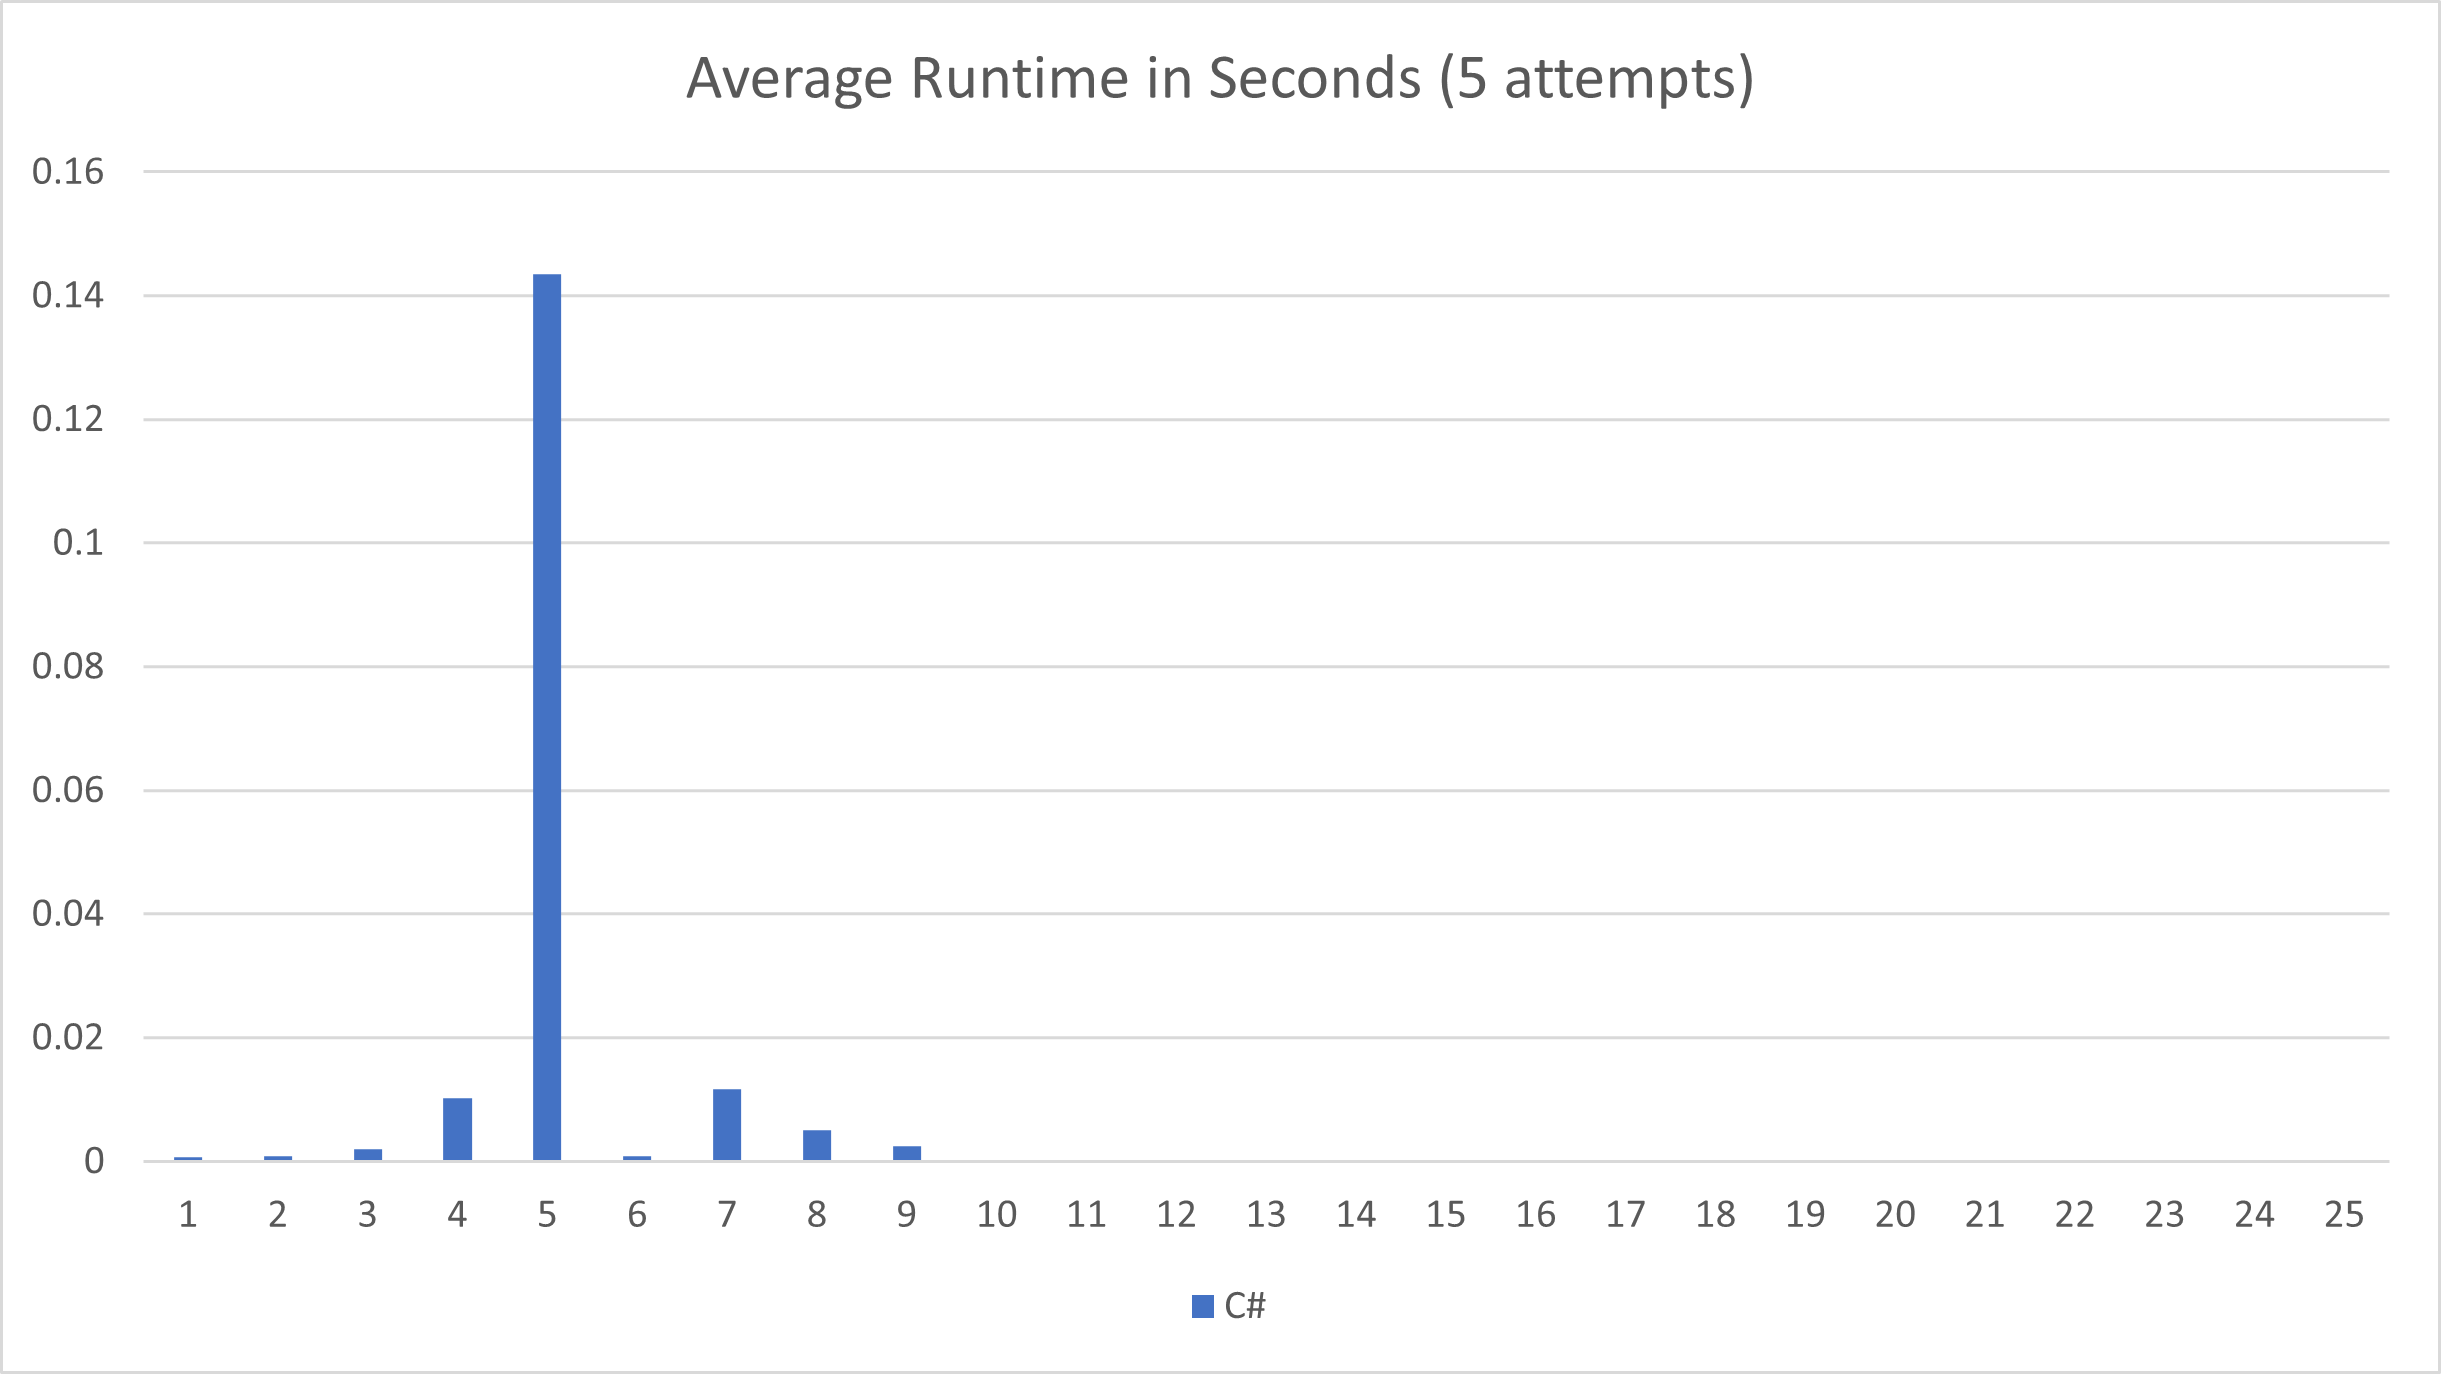
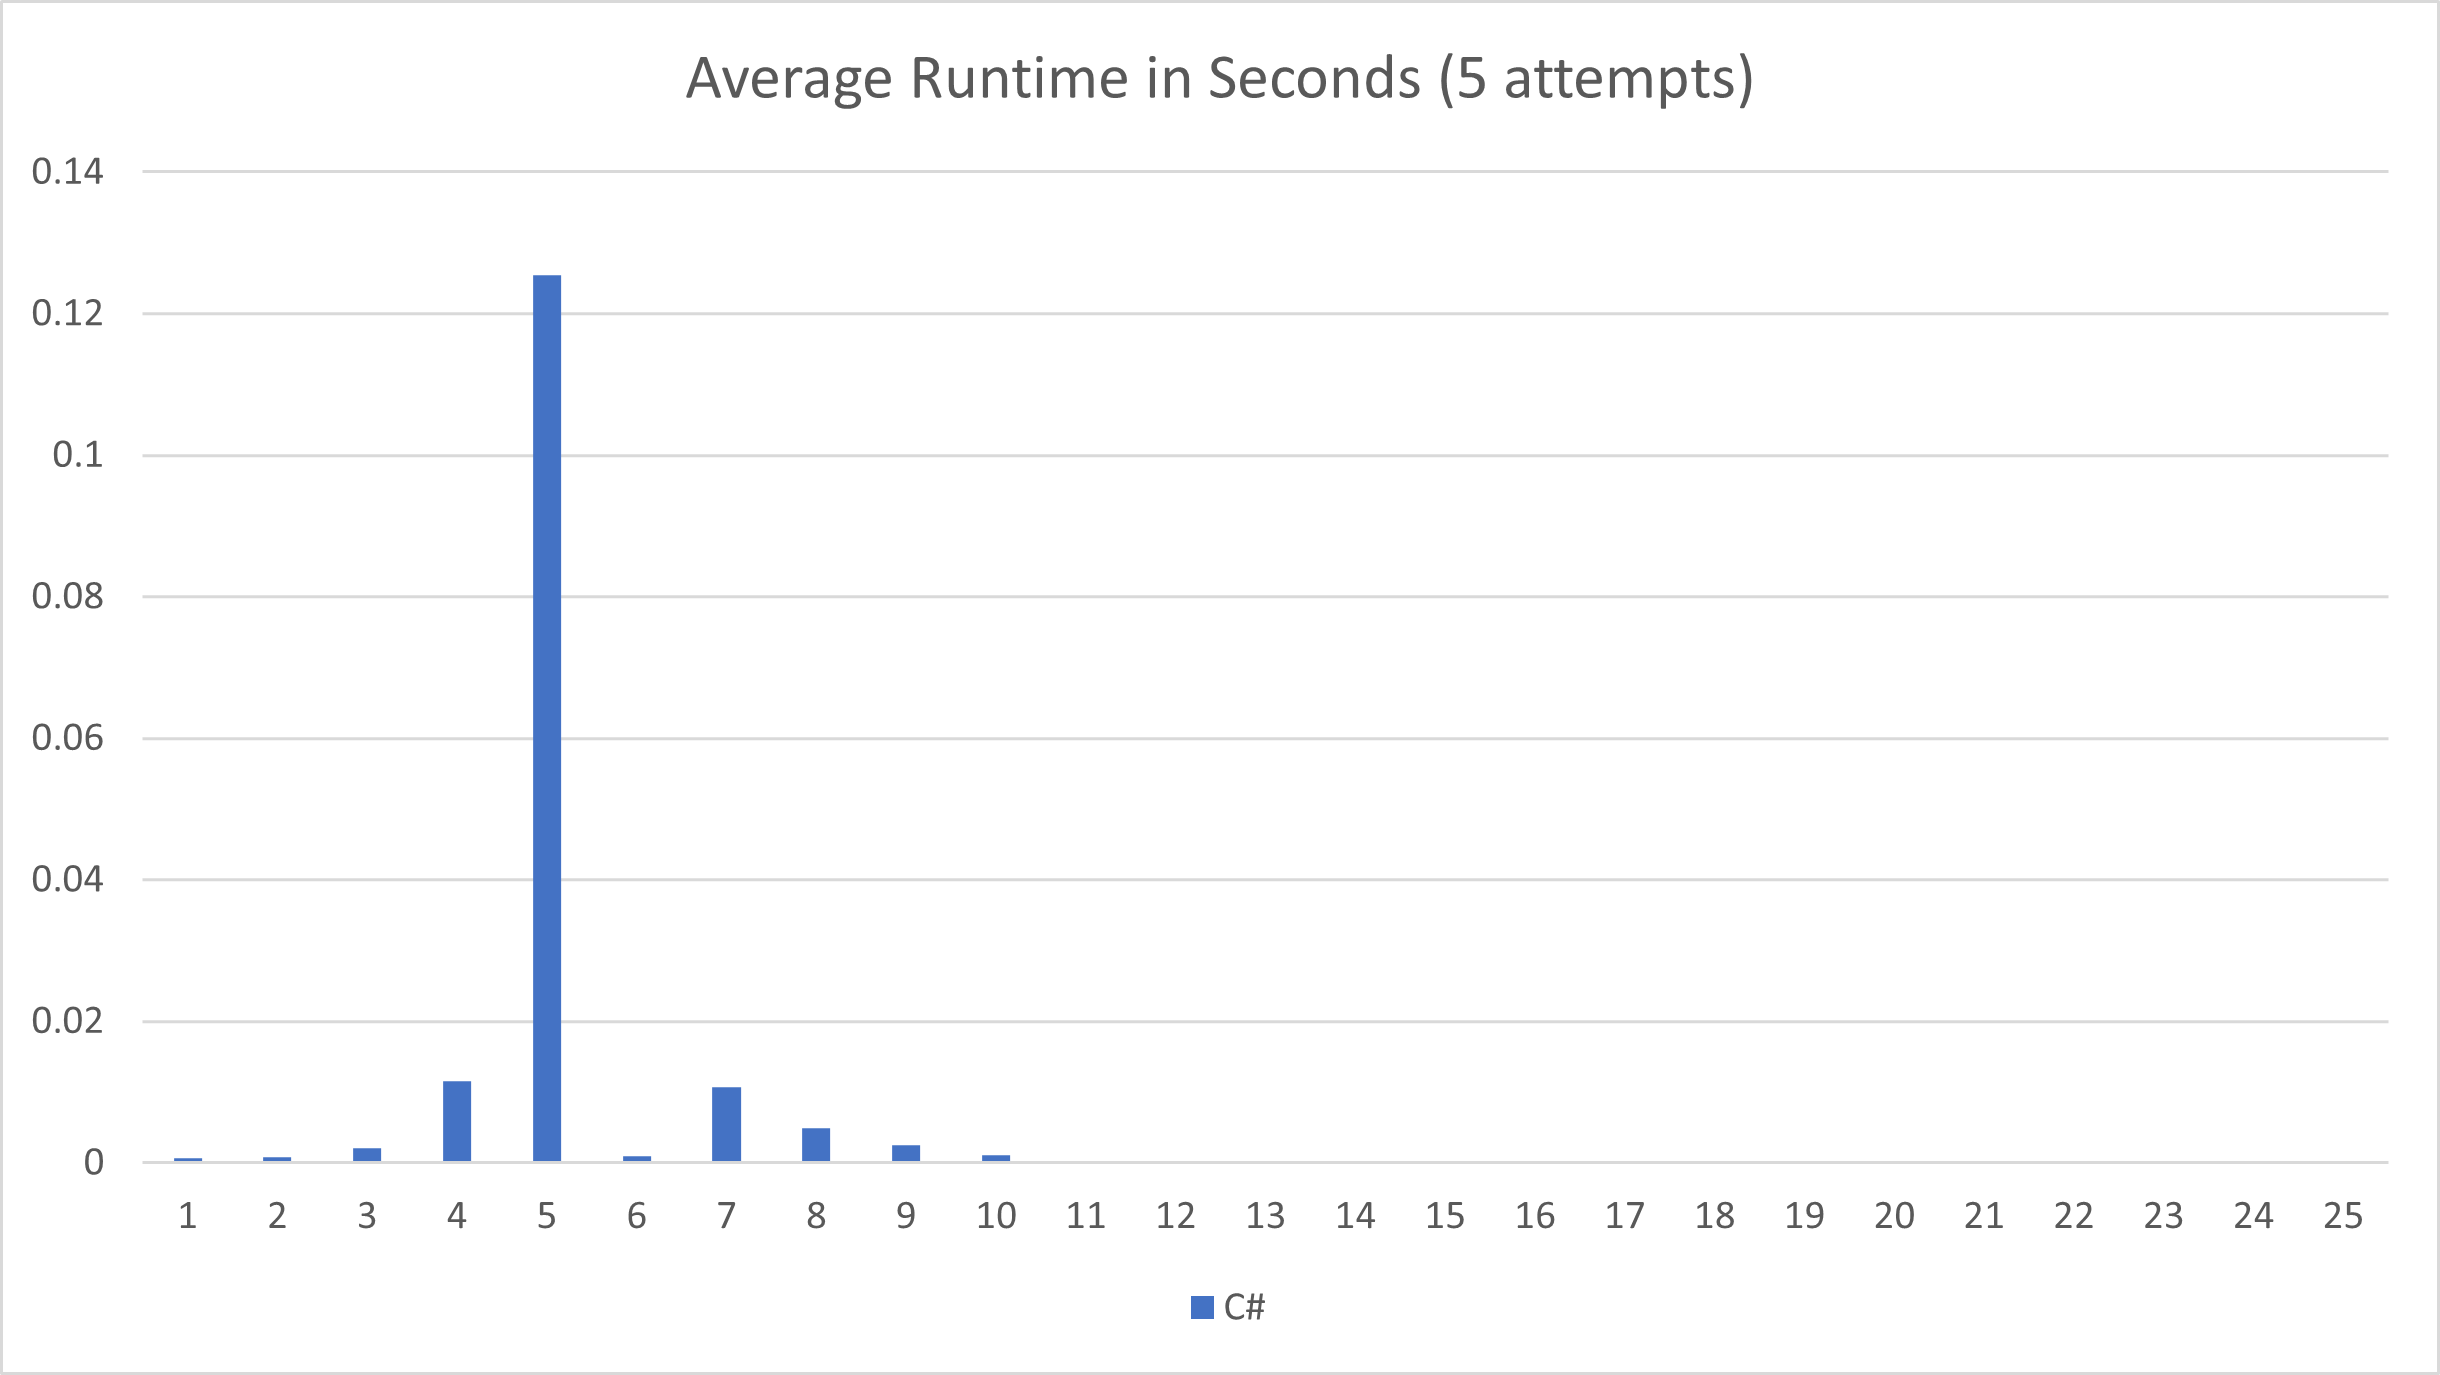
Solve day 10 (original)

diff --git a/csharp/AdventOfCode2021/Solvers/Day10Solver.cs b/csharp/AdventOfCode2021/Solvers/Day10Solver.cs
@@ -1,0 +1,132 @@
+using System;
+using System.Collections.Generic;
+using System.Linq;
+
+namespace AdventOfCode2021.Solvers
+{
+    internal class Day10Solver : ISolver
+    {
+        private const string Name = "Day 10";
+
+        private const string InputFile = "day10input.txt";
+
+        public void Solve()
+        {
+            Console.WriteLine(Name);
+            var lines = Input.GetLinesFromFile(InputFile)
+                .ToList();
+
+            Console.WriteLine($"Output (part 1): {GetPart1Answer(lines)}");
+            Console.WriteLine($"Output (part 2): {GetPart2Answer(lines)}");
+        }
+
+        private static int GetPart1Answer(List<string> input)
+        {
+            var totalScore = 0;
+            var openingChars = new int[] { '(', '[', '{', '<' };
+            foreach (var line in input)
+            {
+                var stack = new Stack<char>();
+                foreach (var c in line)
+                {
+                    if (openingChars.Contains(c))
+                    {
+                        stack.Push(c);
+                    }
+                    else if (stack.Peek() == MatchFor(c))
+                    {
+                        stack.Pop();
+                    }
+                    else
+                    {
+                        totalScore += ScoreInvalid(c);
+                        break;
+                    }
+                }
+            }
+
+            return totalScore;
+        }
+
+        private static long GetPart2Answer(List<string> input)
+        {
+            var openingChars = new int[] { '(', '[', '{', '<' };
+            var scores = new List<long>();
+            foreach (var line in input)
+            {
+                var stack = new Stack<char>();
+                var invalid = false;
+                foreach (var c in line)
+                {
+                    if (openingChars.Contains(c))
+                    {
+                        stack.Push(c);
+                    }
+                    else if (stack.Peek() == MatchFor(c))
+                    {
+                        stack.Pop();
+                    }
+                    else
+                    {
+                        invalid = true;
+                        break;
+                    }
+                }
+
+                if (!invalid)
+                {
+                    var currentScore = 0L;
+                    while (stack.Count > 0)
+                    {
+                        currentScore *= 5;
+                        currentScore += ScoreCompletion(MatchFor(stack.Pop()));
+                    }
+
+                    scores.Add(currentScore);
+                }
+            }
+
+            var middle = scores.Count / 2;
+            return scores.OrderBy(s => s).Skip(middle).First();
+        }
+
+        private static char MatchFor(char c)
+        {
+            return c switch
+            {
+                '(' => ')',
+                '[' => ']',
+                '{' => '}',
+                '<' => '>',
+                '>' => '<',
+                '}' => '{',
+                ']' => '[',
+                ')' => '('
+            };
+        }
+
+        private static int ScoreInvalid(char closing)
+        {
+            return closing switch
+            {
+                ')' => 3,
+                ']' => 57,
+                '}' => 1197,
+                '>' => 25137,
+                _ => throw new ArgumentOutOfRangeException(nameof(closing), closing, null)
+            };
+        }
+
+        private static int ScoreCompletion(char closing)
+        {
+            return closing switch
+            {
+                ')' => 1,
+                ']' => 2,
+                '}' => 3,
+                '>' => 4,
+                _ => throw new ArgumentOutOfRangeException(nameof(closing), closing, null)
+            };
+        }
+    }
+}

diff --git a/csharp/AdventOfCode2021/Program.cs b/csharp/AdventOfCode2021/Program.cs
@@ -19,6 +19,7 @@ namespace AdventOfCode2021
             new Day07Solver(),
             new Day08Solver(),
             new Day09Solver(),
+            new Day10Solver(),
         };
 
         public static void Main()

diff --git a/README.md b/README.md
@@ -10,7 +10,7 @@ languages later and will track which solutions I've done, using the chart below.
 
 |      |1|2|3|4|5|6|7|8|9|10|11|12|13|14|15|16|17|18|19|20|21|22|23|24|25|
 |------|-|-|-|-|-|-|-|-|-|--|--|--|--|--|--|--|--|--|--|--|--|--|--|--|--|
-|**C#**|🌟|🌟|🌟|🌟|🌟|🌟|🌟|🌟|🌟|☆|☆|☆|☆|☆|☆|☆|☆|☆|☆|☆|☆|☆|☆|☆|☆|
+|**C#**|🌟|🌟|🌟|🌟|🌟|🌟|🌟|🌟|🌟|🌟|☆|☆|☆|☆|☆|☆|☆|☆|☆|☆|☆|☆|☆|☆|☆|
 
 ⭐ - First star completed\
 🌟 - Both stars completed
